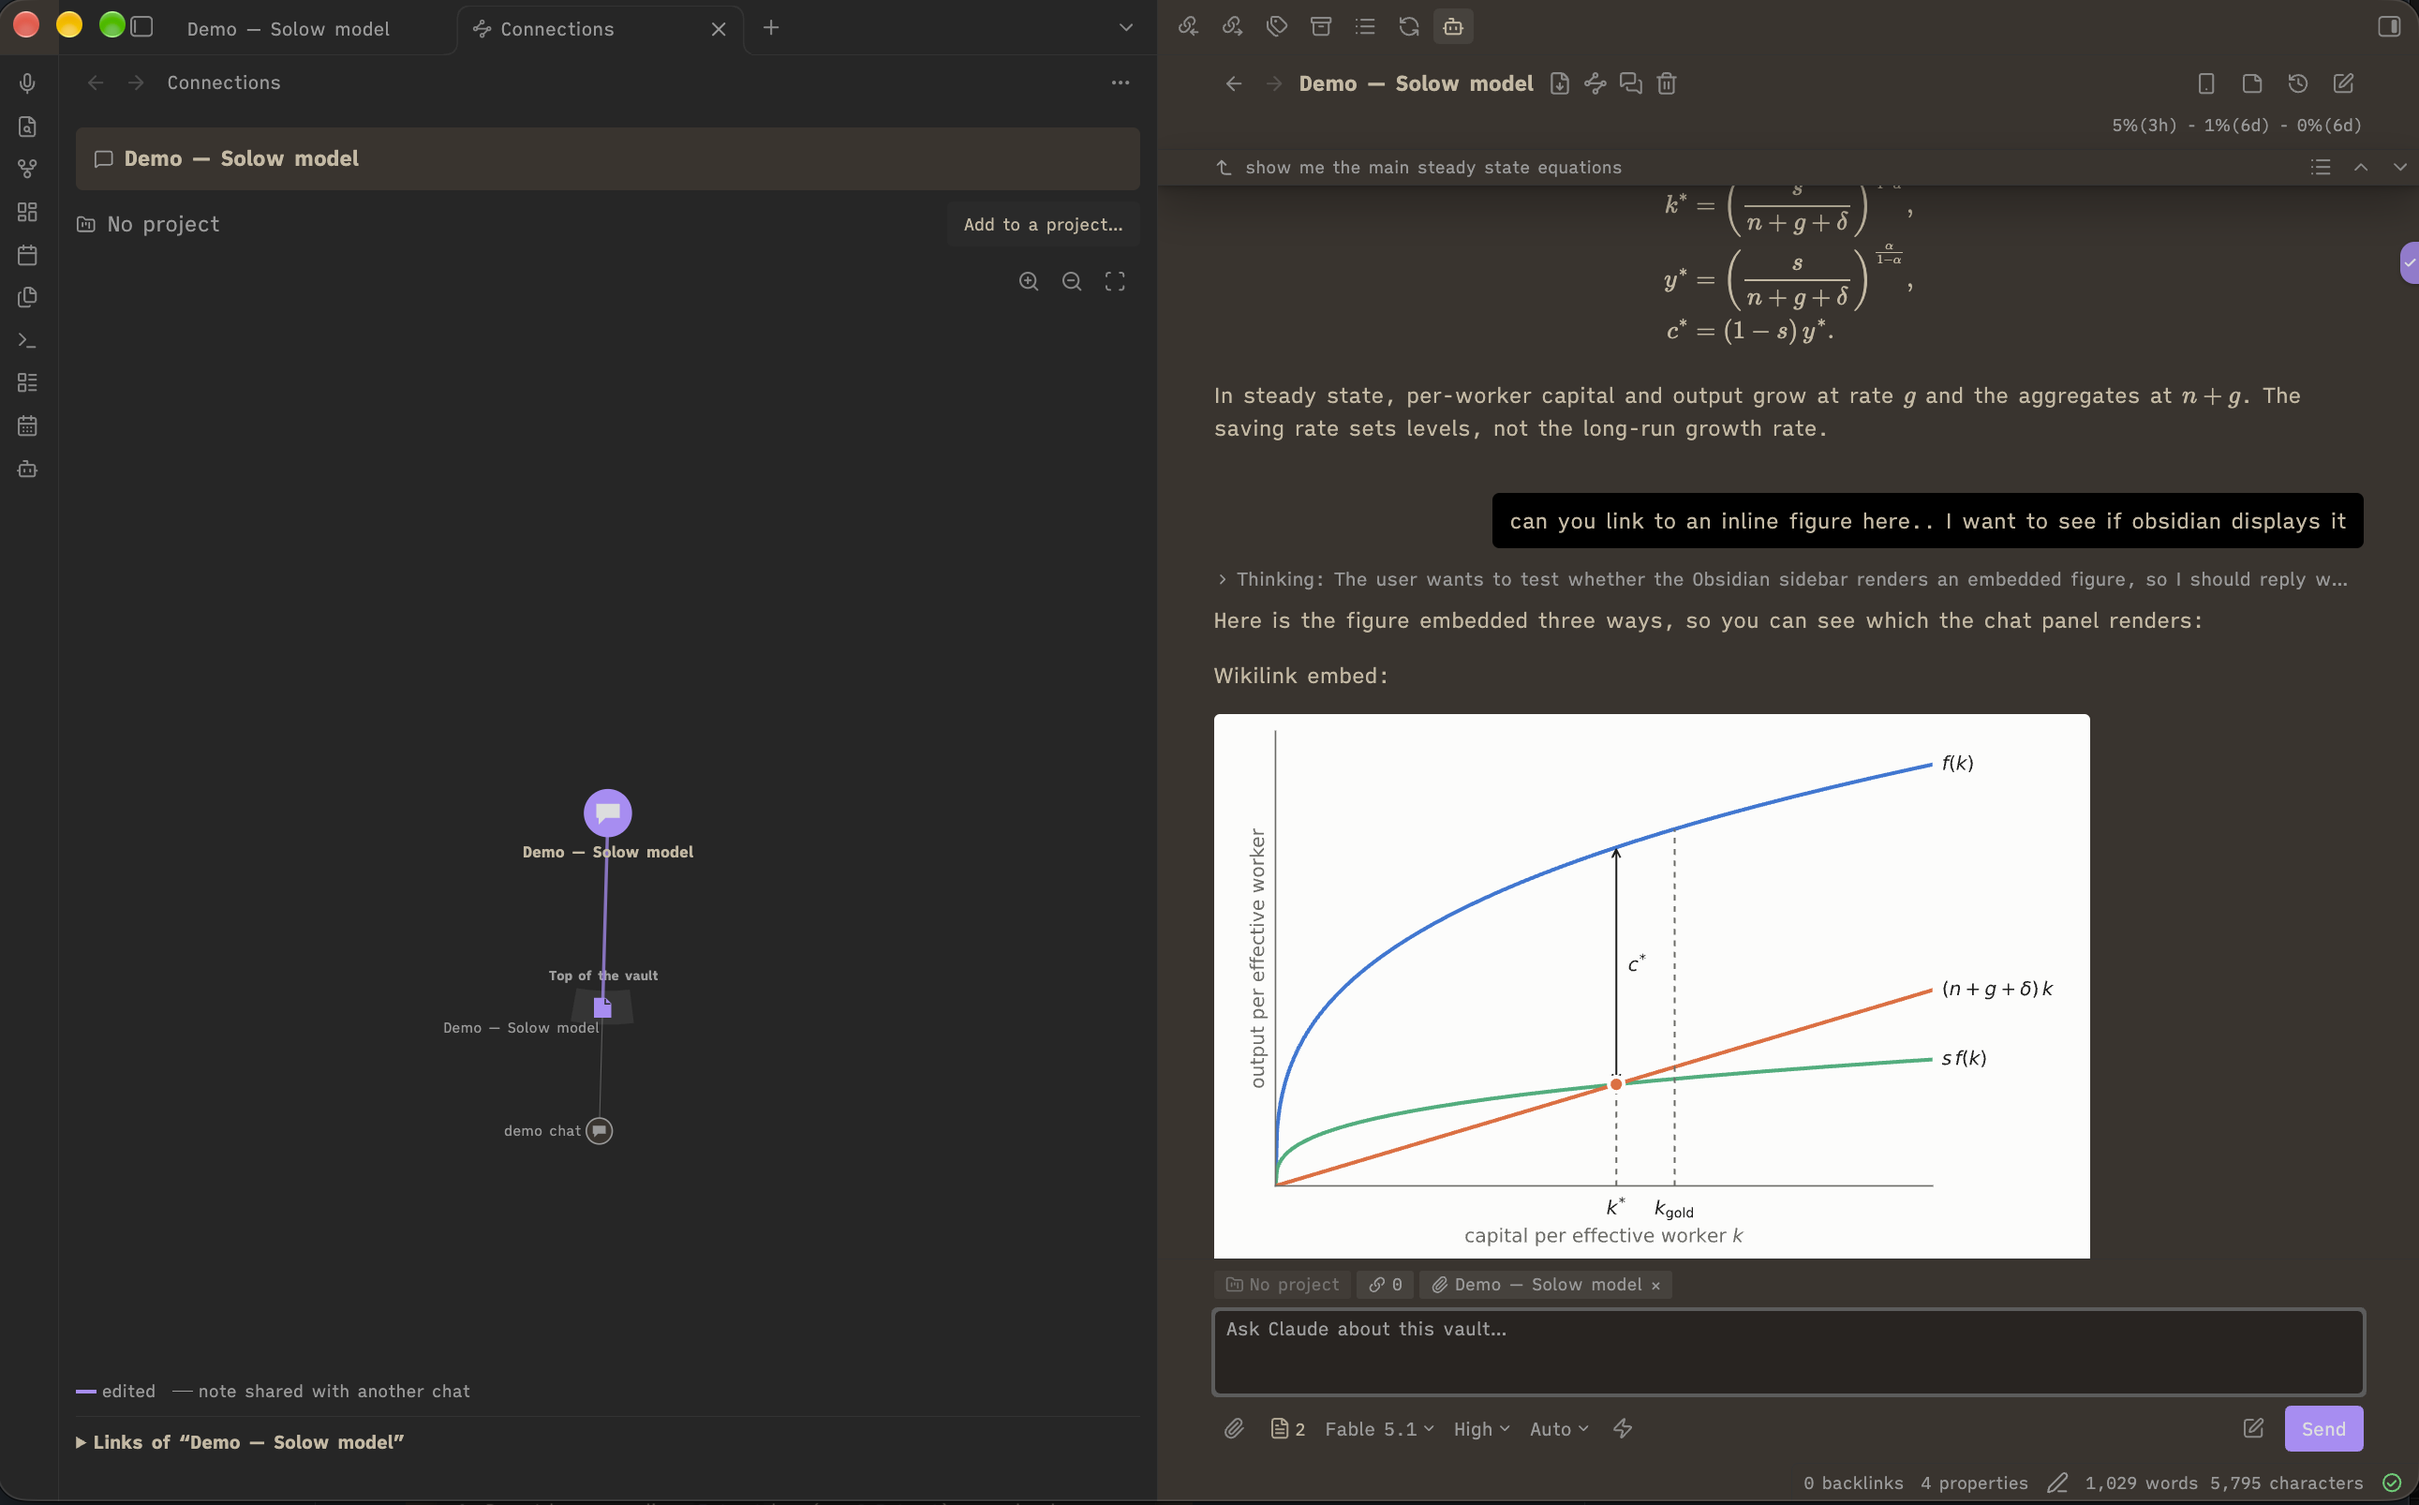
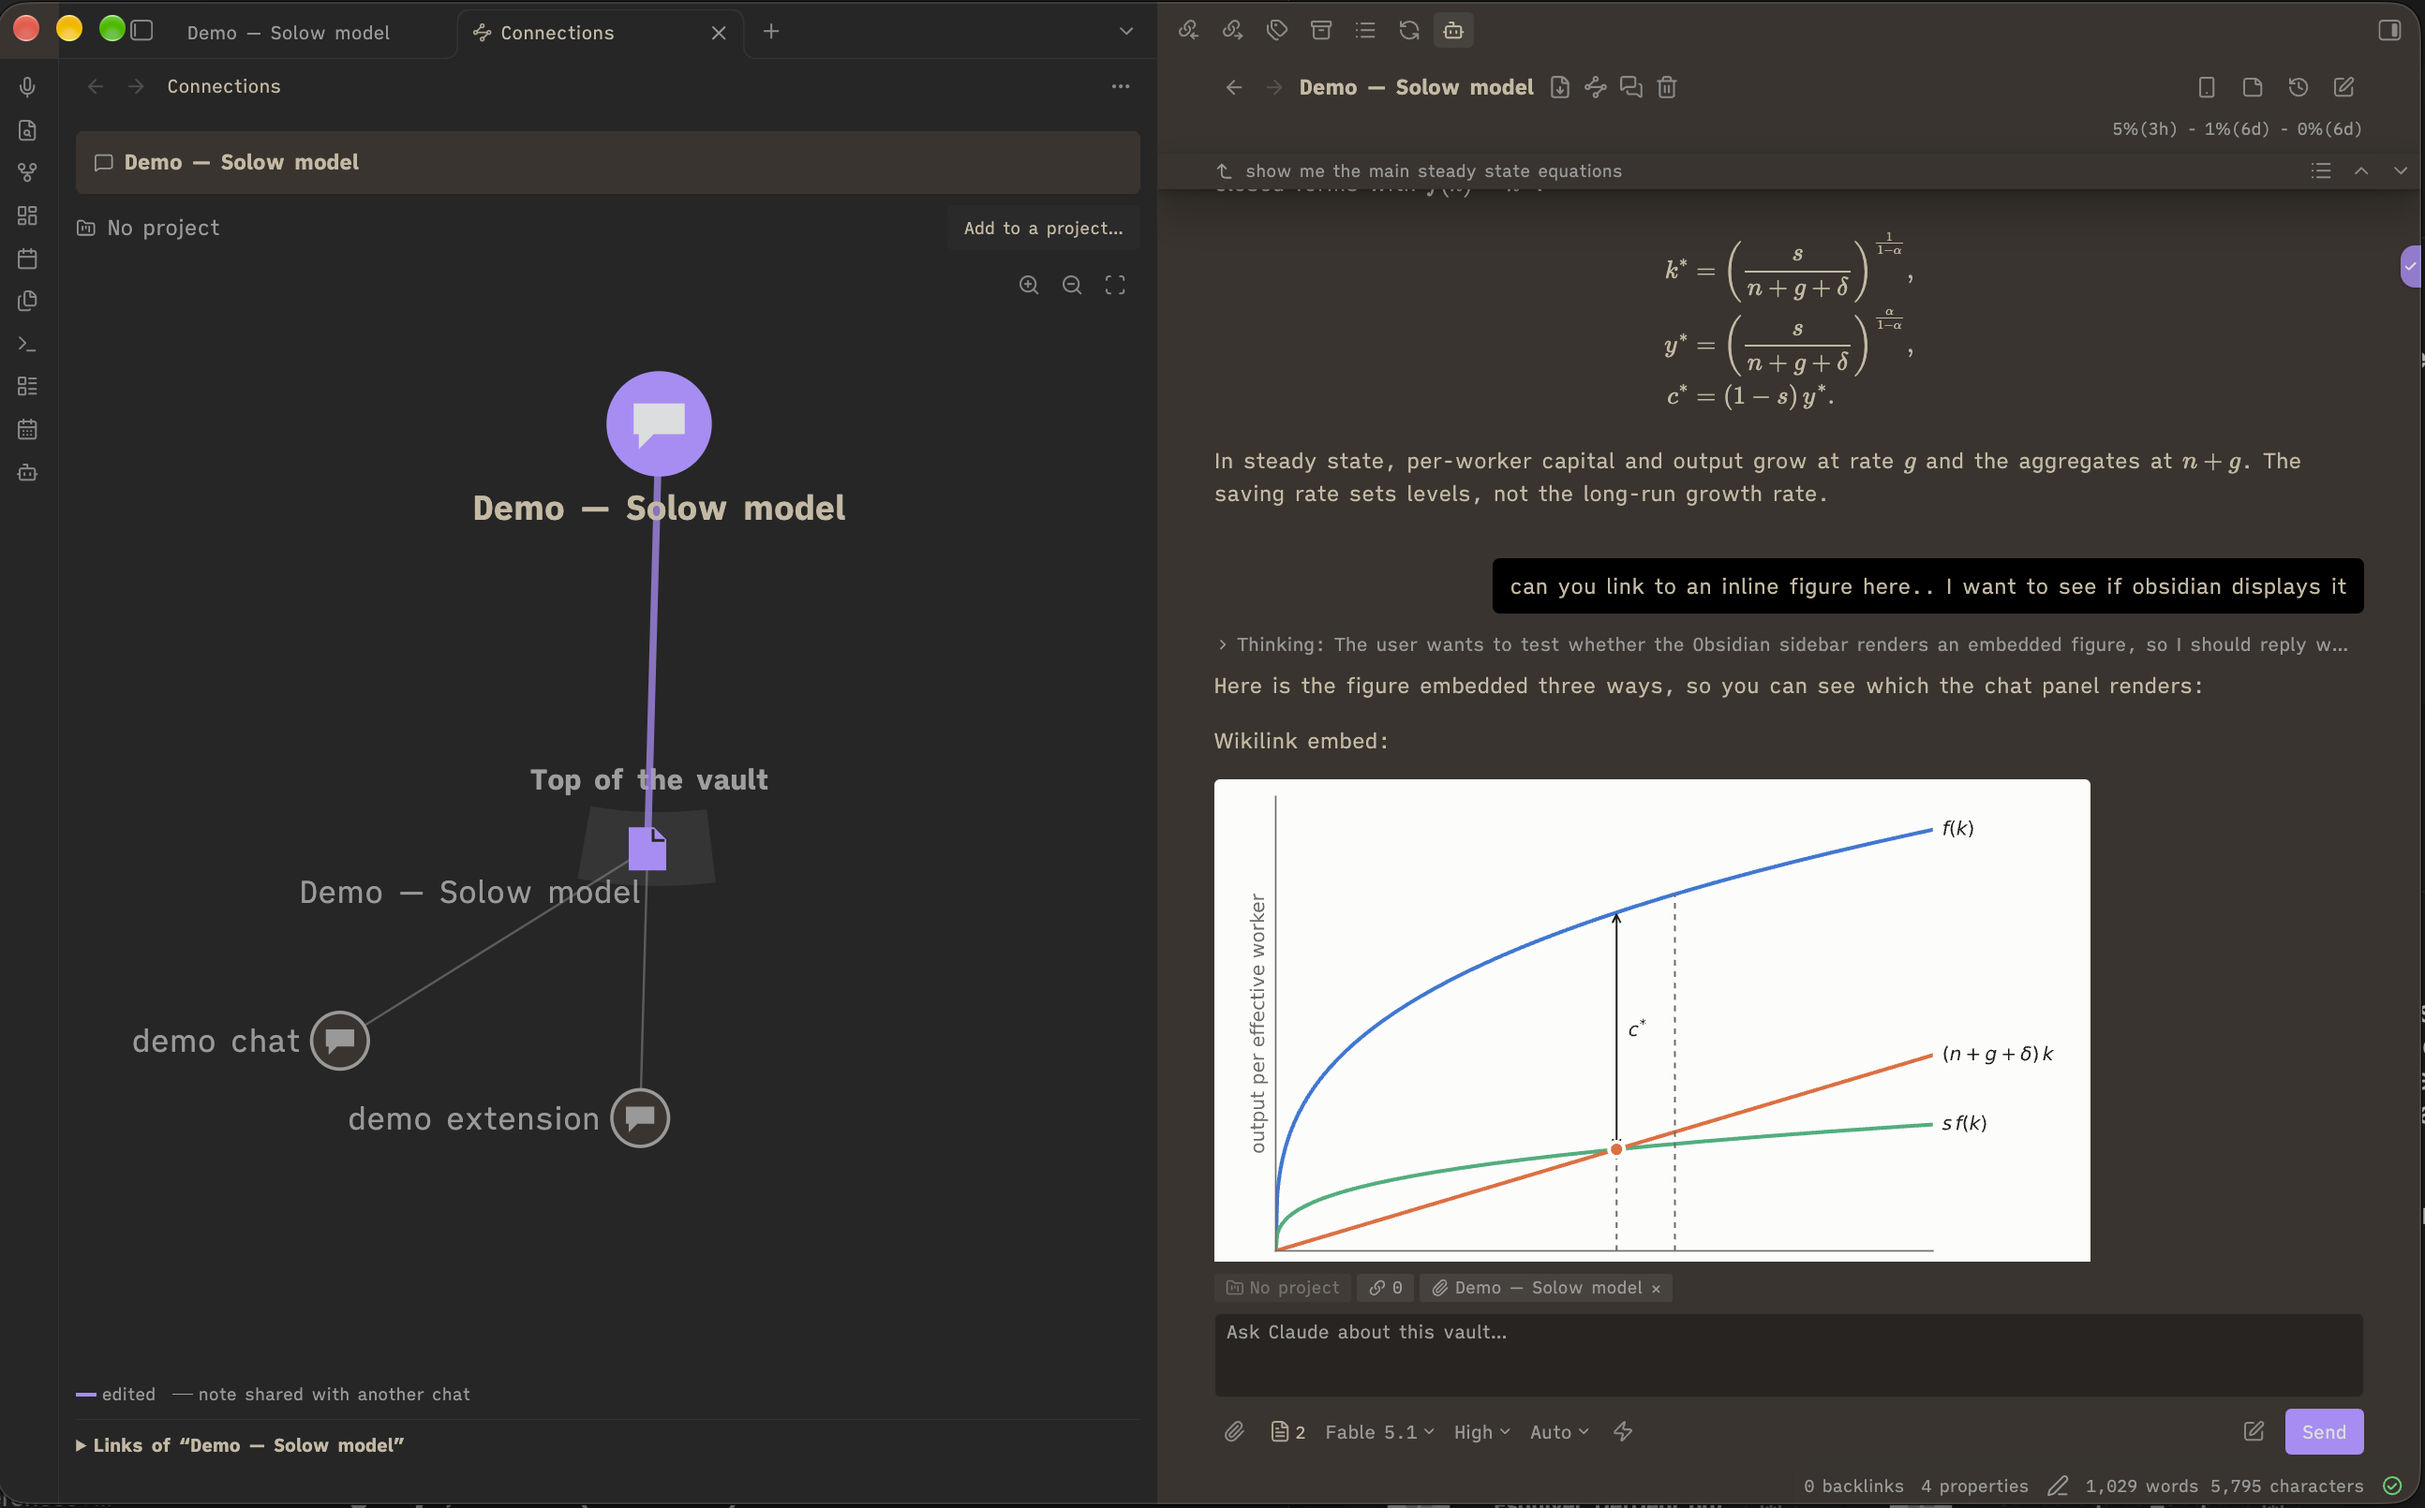
README: Connections picture zoomed in, with two chats sharing the note

diff --git a/README.md b/README.md
@@ -261,7 +261,7 @@ mjx-container.MathJax { font-size: calc(113.1% * 1.05) !important; }
 
 **See how a chat fits with your other work.** The Connections tab maps the chat in the panel: the notes it worked on, grouped by folder, and the other chats that share those notes or are linked with it. It follows the panel as you change chat.
 
-<img src="docs/connections.png" width="800" alt="The Connections tab beside the panel: the map of the chat “Demo — Solow model”, with no project, linked to the note it edited and, through that note, to another chat that shares it; the panel on the right shows the chat, a reply with the steady-state equations and a figure embedded in the reply">
+<img src="docs/connections.png" width="800" alt="The Connections tab beside the panel: the map of the chat “Demo — Solow model”, with no project, linked to the note it edited, in its folder's arc, and through that note to two other chats that share it, “demo chat” and “demo extension”; the panel on the right shows the chat, a reply with the steady-state equations and a figure embedded in the reply">
 
 <details>
 <summary>Connections, projects and links between chats</summary>
